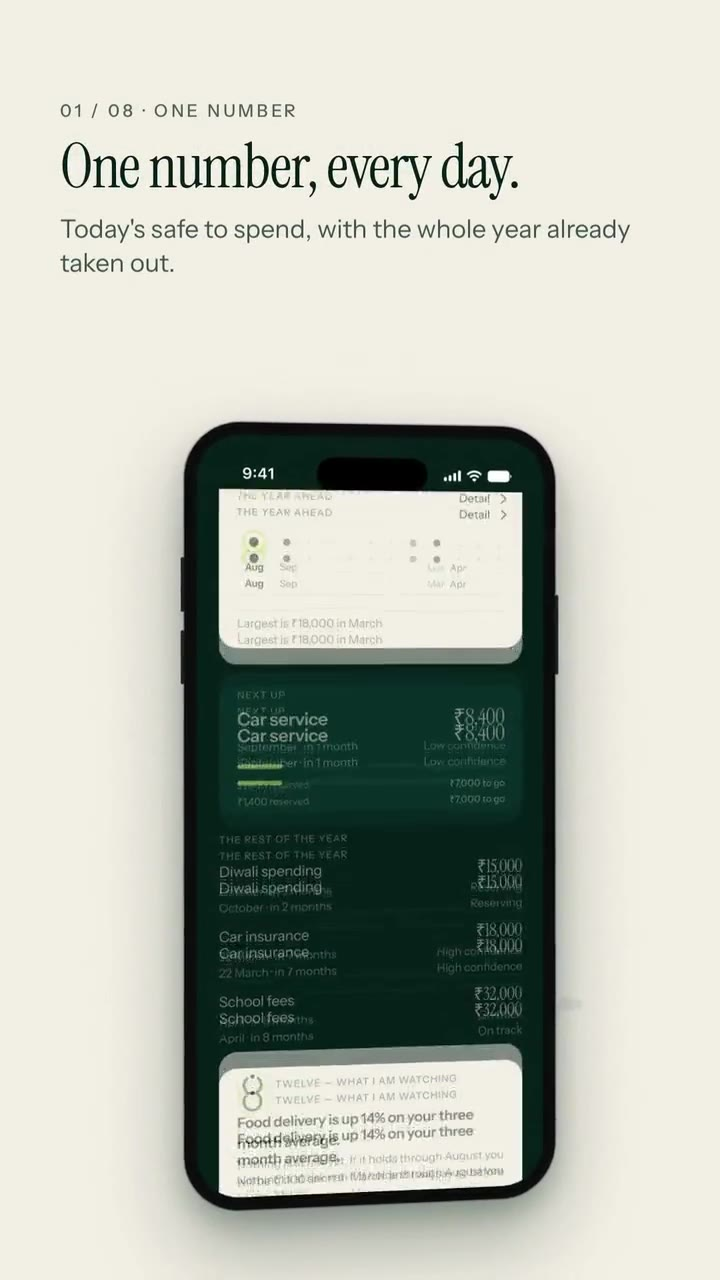
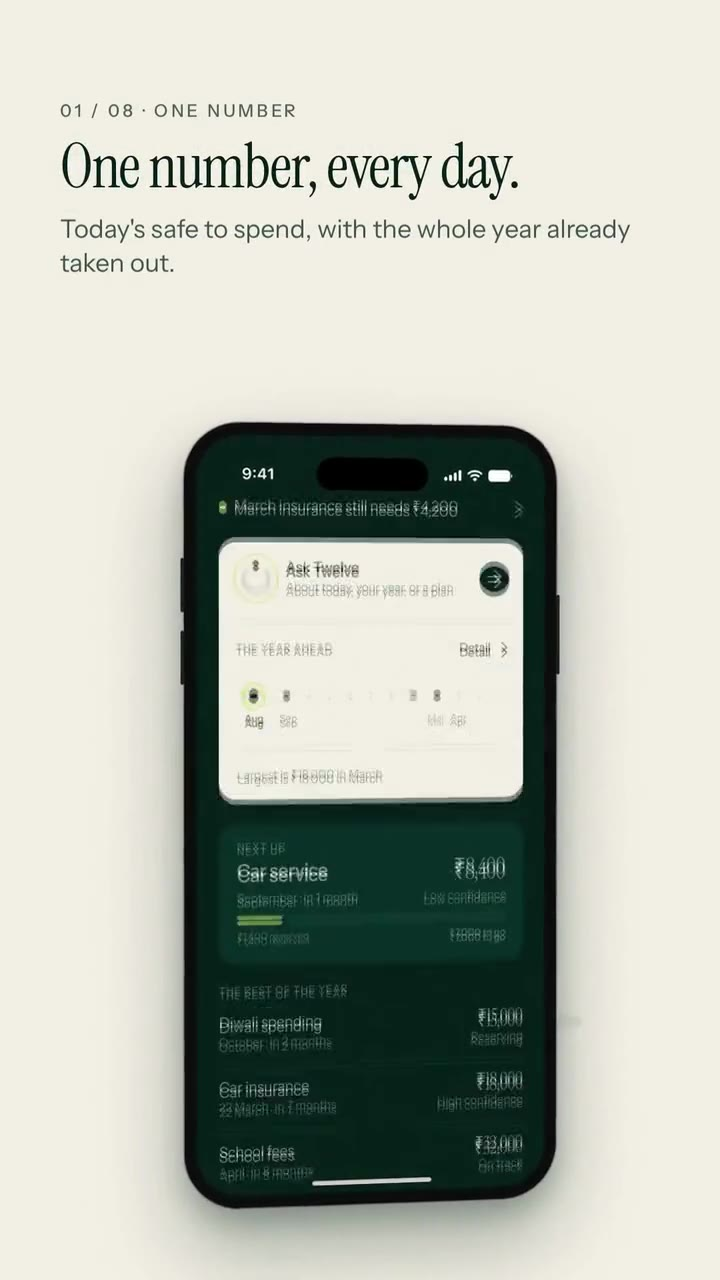
Phones: work card loops shortened to 4:5 (top of his vertical cut) so title, loop and button fit one screen; cleaner Twelve poster
Claude-Session: https://claude.ai/code/session_01QYyvr3DpjWbjT3bhQUr1YV

Changed region(s): [[0.2444, 0.3438, 0.7333, 0.9375], [0.7639, 0.375, 0.7944, 0.4688], [0.7639, 0.6875, 0.7944, 0.75]]

diff --git a/src/styles/kinetic.css b/src/styles/kinetic.css
@@ -1047,3 +1047,8 @@ html.calm .dock{transition:none}
   [data-novid]>.vsnd{display:none}
 }
 @media (max-width:759px) and (orientation:portrait){.slot{cursor:pointer}}
+/* phones (Vishal 2026-10-13, "the video loop height is so much... scroll two times just to see the CTA"): work card loops show the top 4:5 of the vertical cut (his words and the phone), so title, loop and button fit one screen */
+@media (max-width:699px){
+  .row .vbox{aspect-ratio:4/5}
+  .row .vbox img,.row .vbox video{object-fit:cover;object-position:50% 12%}
+}
